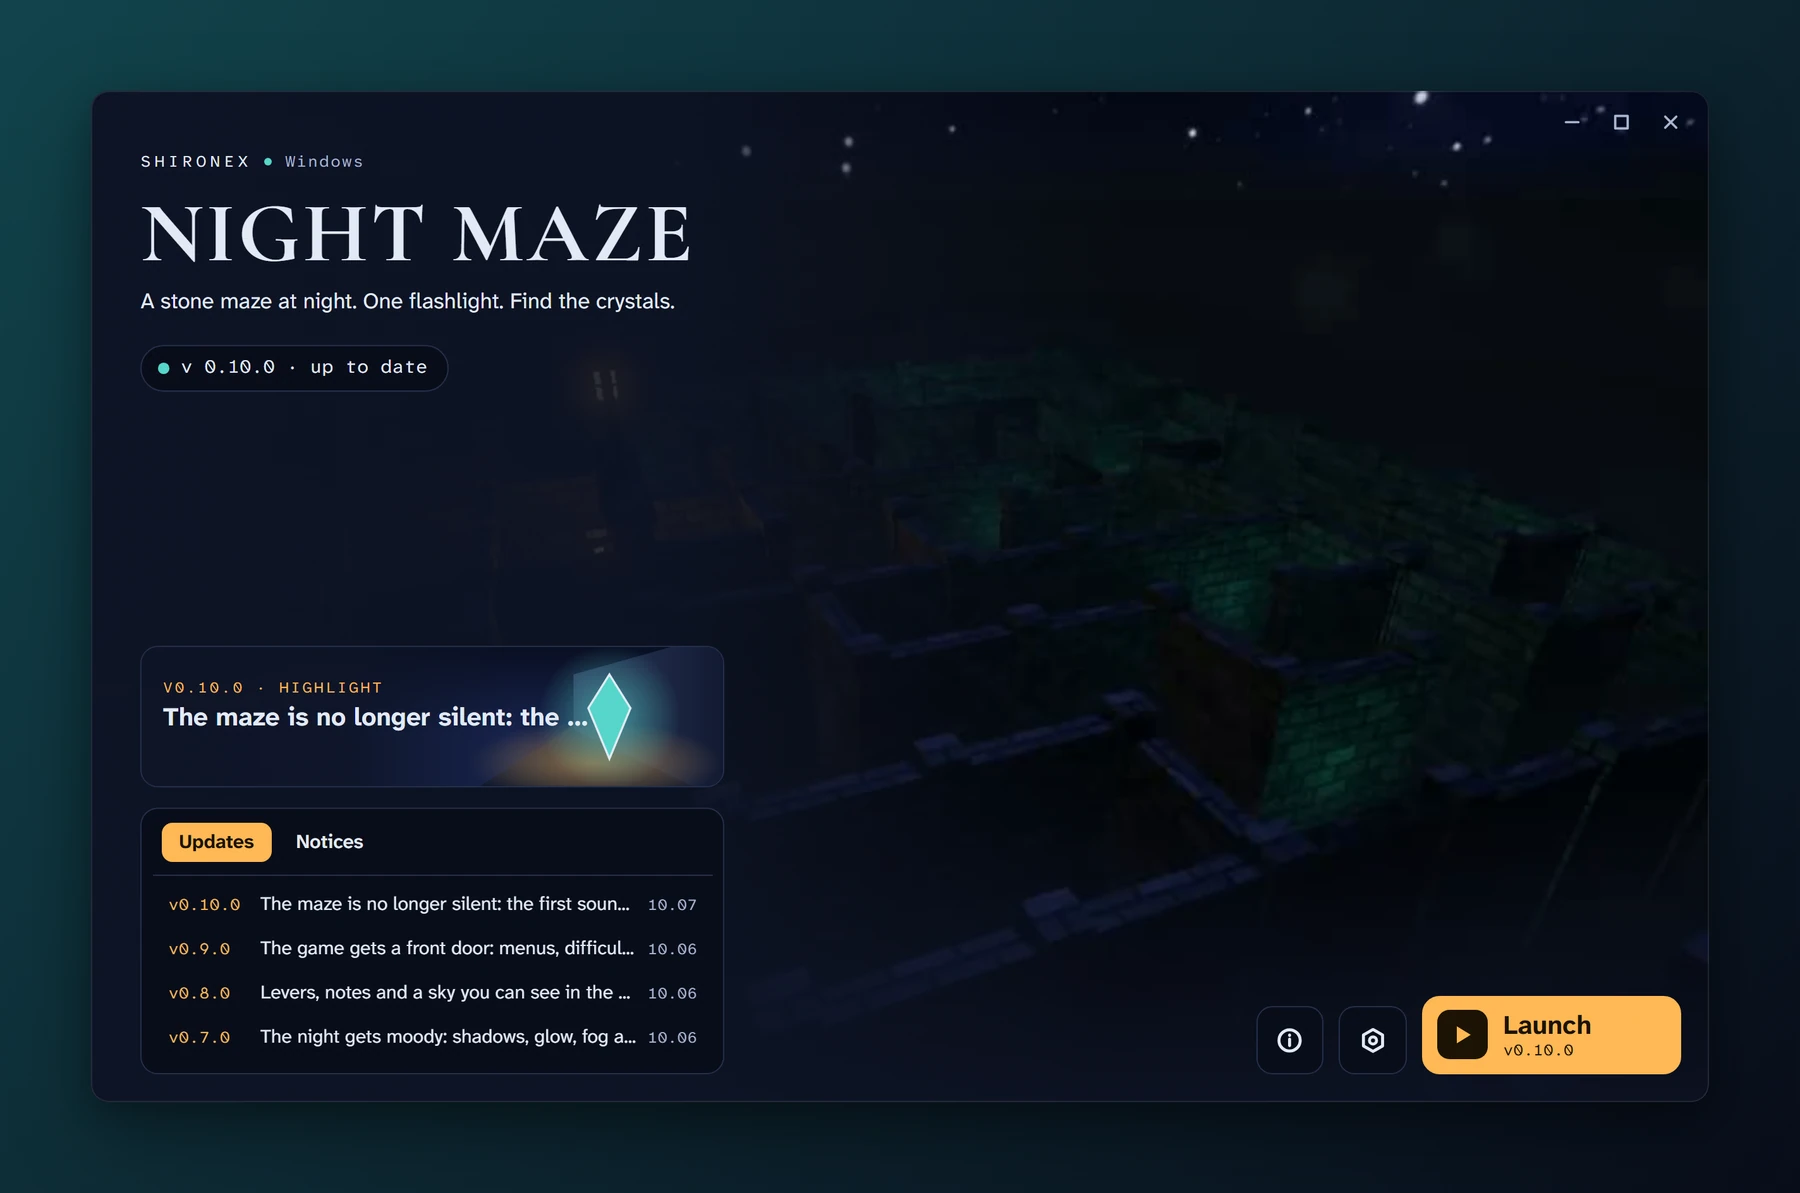
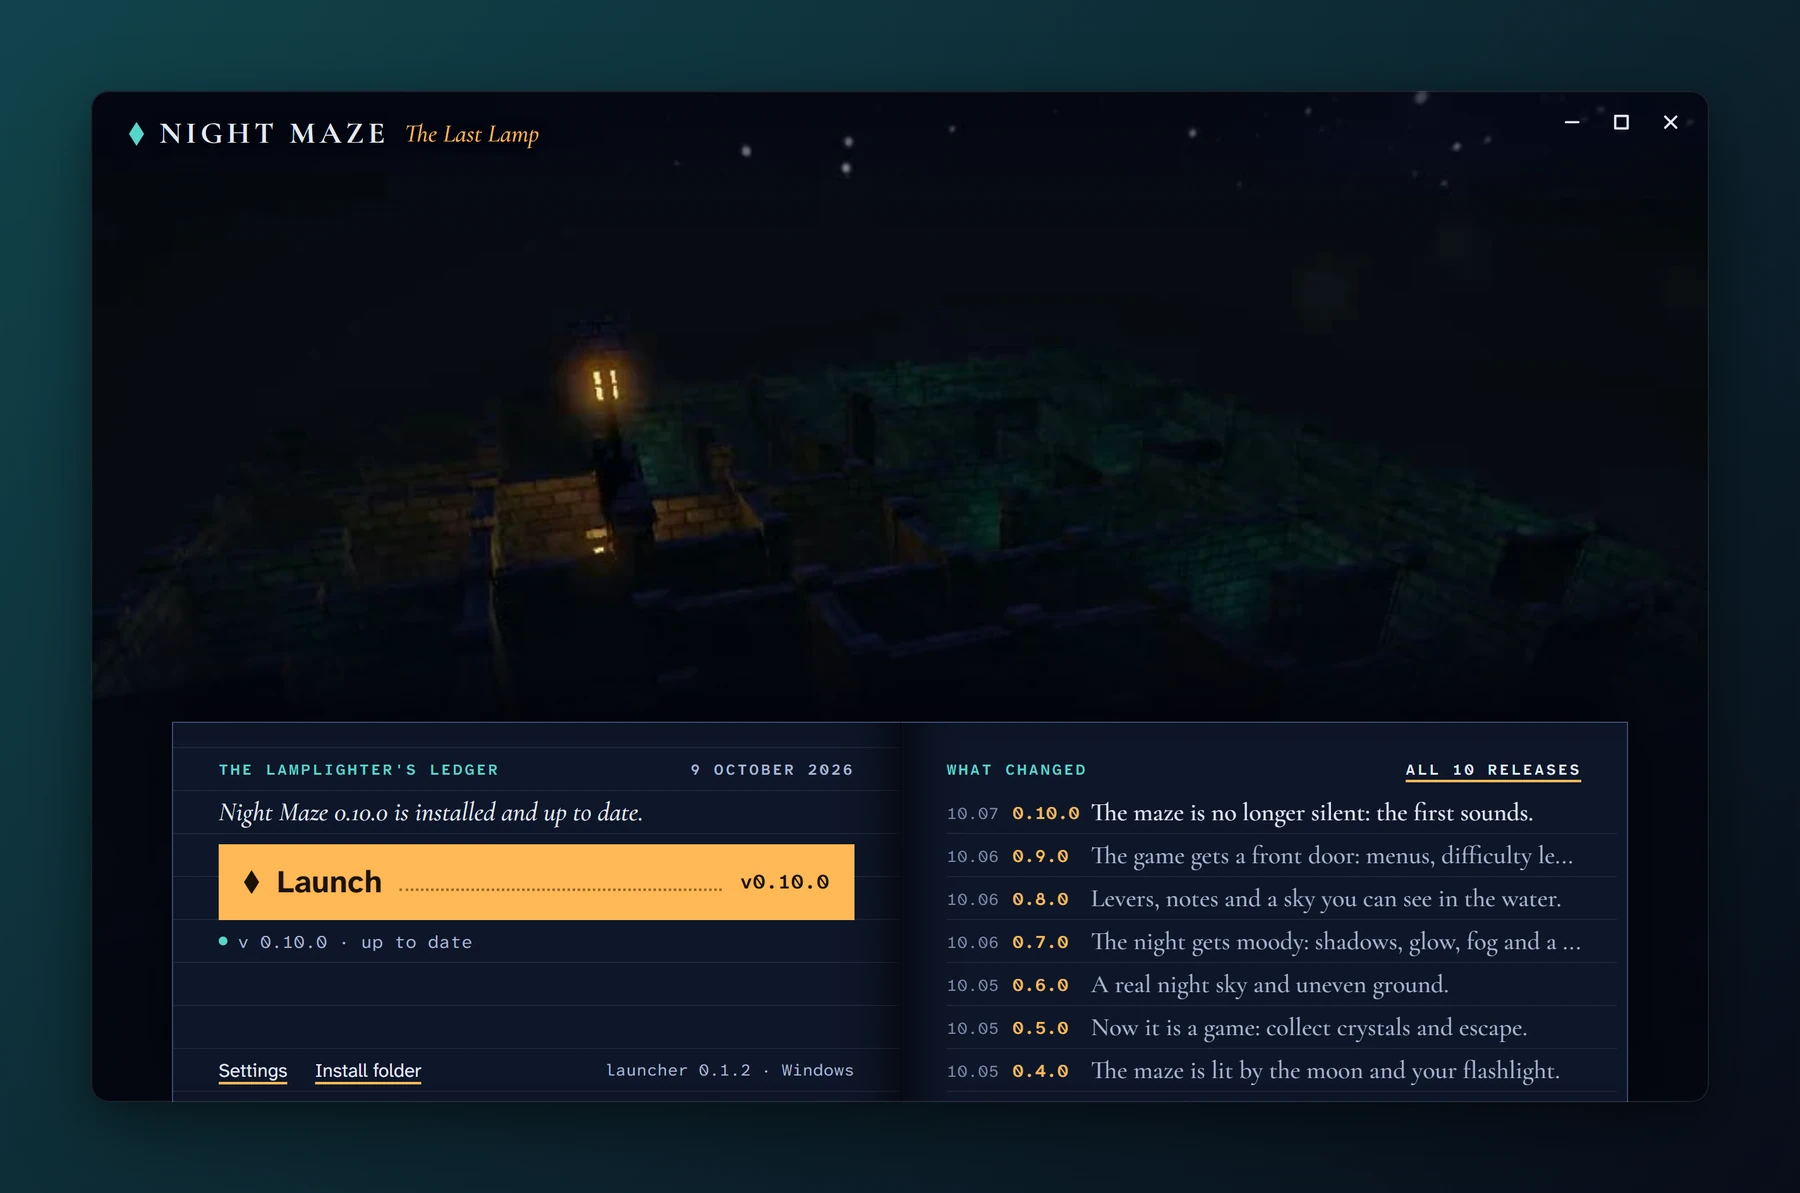
docs(showcase): capture the window again as the ledger

diff --git a/README.md b/README.md
@@ -39,21 +39,23 @@ What I have really tried: I have run the launcher by hand on one Windows 11 PC, 
 
 ## Screenshots
 
+The window is the recorded loop of the game with an open ledger along the bottom. The left page says what is installed and holds the one main action, the right page lists the releases.
+
 <table>
   <tr>
     <td width="50%"><img src="assets/showcase/first-start.webp" alt="Night Maze Launcher: First start" /></td>
     <td width="50%"><img src="assets/showcase/ready.webp" alt="Night Maze Launcher: Ready" /></td>
   </tr>
   <tr>
-    <td align="center"><sub>Nothing is installed yet: one button downloads the newest game.</sub></td>
-    <td align="center"><sub>The game is installed and up to date, with its release notes beside it.</sub></td>
+    <td align="center"><sub>Nothing is installed yet: one line downloads the newest game.</sub></td>
+    <td align="center"><sub>The game is installed and up to date, with every release on the page beside it.</sub></td>
   </tr>
   <tr>
     <td width="50%"><img src="assets/showcase/update.webp" alt="Night Maze Launcher: Update" /></td>
     <td width="50%"><img src="assets/showcase/installing.webp" alt="Night Maze Launcher: Installing" /></td>
   </tr>
   <tr>
-    <td align="center"><sub>A newer game version is found: update, or start the one you have.</sub></td>
+    <td align="center"><sub>A newer game version waits on the right page: update, or start the one you have.</sub></td>
     <td align="center"><sub>The download is checked and unpacked in steps.</sub></td>
   </tr>
   <tr>
@@ -81,11 +83,11 @@ The release notes in these pictures are the real ones of the game. The install f
 | Feature              | What it does                                                                                                                                                                                                                                                                                                                                                                          |
 | -------------------- | ------------------------------------------------------------------------------------------------------------------------------------------------------------------------------------------------------------------------------------------------------------------------------------------------------------------------------------------------------------------------------------- |
 | Install              | Downloads the zip of the newest game release, checks its size and SHA-256 against the signed release information, and unpacks it into its own version folder. A version folder appears complete or not at all.                                                                                                                                                                        |
-| Release notes        | Shows the notes of every game release: a highlight card, a list, and a dialog with the full text. The last notes read are kept on disk, so they are there without a network too.                                                                                                                                                                                                      |
+| Release notes        | Shows the notes of every game release: one dated line each on the right page, newest on top, and a dialog with the full text. News and notices from the feed are shown too when there are any. The last notes read are kept on disk, so they are there without a network too.                                                                                                         |
 | Game updates         | Looks for a newer game version on start (this can be switched off) and offers it. You can update, or start the version you have.                                                                                                                                                                                                                                                      |
 | Going back a version | The previous version stays on disk. If a new version that has never run well here exits with an error within 15 seconds of its start, and the previous version has run well before, the launcher removes the new one, starts the previous one and says so. That new version is not installed again on that computer. A build that starts but only shows a black screen is not caught. |
 | Offline              | Without a network the installed game still starts. Only the very first download needs a connection.                                                                                                                                                                                                                                                                                   |
-| Launcher self update | The launcher looks for a newer launcher at start and every four hours while it stays open. When it finds one, a small box at the top right names the version and has a button that installs it. The same update is also under Settings, About, with its notes.                                                                                                                        |
+| Launcher self update | The launcher looks for a newer launcher at start and every four hours while it stays open. When it finds one, a slip of paper that sticks out of the ledger names the version, and a line on the left page installs it. The same update is also under Settings, About, with its notes.                                                                                                |
 | Per user install     | The installer needs no administrator rights. The game, its logs and the launcher's state live in one folder of the user, `%LOCALAPPDATA%\NightMaze`.                                                                                                                                                                                                                                  |
 | Settings             | Open the install folder, switch the update check on start on or off, open the folder with the game log.                                                                                                                                                                                                                                                                               |
 
@@ -123,16 +125,16 @@ The source moved here from the `launcher/` folder of the game repository, with i
 
 You need Node 22, pnpm 10 (`corepack enable` gives the version `package.json` names), Rust (rustup installs the version `rust-toolchain.toml` pins) and, on Windows, the WebView2 runtime, which is part of Windows 11.
 
-| Command                  | What it does                                                     |
-| ------------------------ | ---------------------------------------------------------------- |
-| `pnpm install`           | Installs the dependencies                                        |
-| `pnpm tauri dev`         | Starts the launcher in development                               |
-| `pnpm build`             | Typechecks the window and builds it into `dist/`                 |
-| `pnpm lint`              | ESLint                                                           |
-| `pnpm format:check`      | Prettier                                                         |
-| `pnpm test`              | The tests of the window's view logic and text helpers            |
-| `pnpm test:scripts`      | The tests of the Node scripts                                    |
-| `cargo test --workspace` | The Rust tests. Run `pnpm build` first: the shell embeds `dist/` |
+| Command                  | What it does                                                           |
+| ------------------------ | ---------------------------------------------------------------------- |
+| `pnpm install`           | Installs the dependencies                                              |
+| `pnpm tauri dev`         | Starts the launcher in development                                     |
+| `pnpm build`             | Typechecks the window and builds it into `dist/`                       |
+| `pnpm lint`              | ESLint                                                                 |
+| `pnpm format:check`      | Prettier                                                               |
+| `pnpm test`              | The tests of the window: view logic, text helpers, every preview state |
+| `pnpm test:scripts`      | The tests of the Node scripts                                          |
+| `cargo test --workspace` | The Rust tests. Run `pnpm build` first: the shell embeds `dist/`       |
 
 How to run it against a local test server, the Rust checks, the folder layout on disk and what has never been tried are in [docs/development.md](docs/development.md). The release files that the launcher and the game repository agree on are in [docs/contract.md](docs/contract.md).
 
@@ -144,7 +146,7 @@ The pictures in this README are made with [@noctcore/showcase-kit](https://githu
 pnpm showcase
 ```
 
-It starts `pnpm dev` (the window only, no Rust build) and opens the window's built-in preview states in a headless Chromium at the real window size, 1280 x 800. Nothing is fetched: the release notes are a static copy of the game's published ones in `src/dev/preview-feed.ts`, which is not part of a release build. To get the same picture on every run it keeps the background video on its still picture, switches transitions off, waits for every font, parks the mouse, pins the user agent and refuses every request that does not go to the dev server.
+It starts `pnpm dev` (the window only, no Rust build) and opens the window's built-in preview states in a headless Chromium at the real window size, 1280 x 800. Nothing is fetched: the release notes are a static copy of the game's published ones in `src/dev/preview-feed.ts`, which is not part of a release build. To get the same picture on every run it keeps the background video on its still picture, fixes the date in the header, switches transitions off, waits for every font, parks the mouse, pins the user agent and refuses every request that does not go to the dev server.
 
 Chromium has to be downloaded once: `pnpm exec playwright install chromium`. I have only run this on Windows 11.
 
